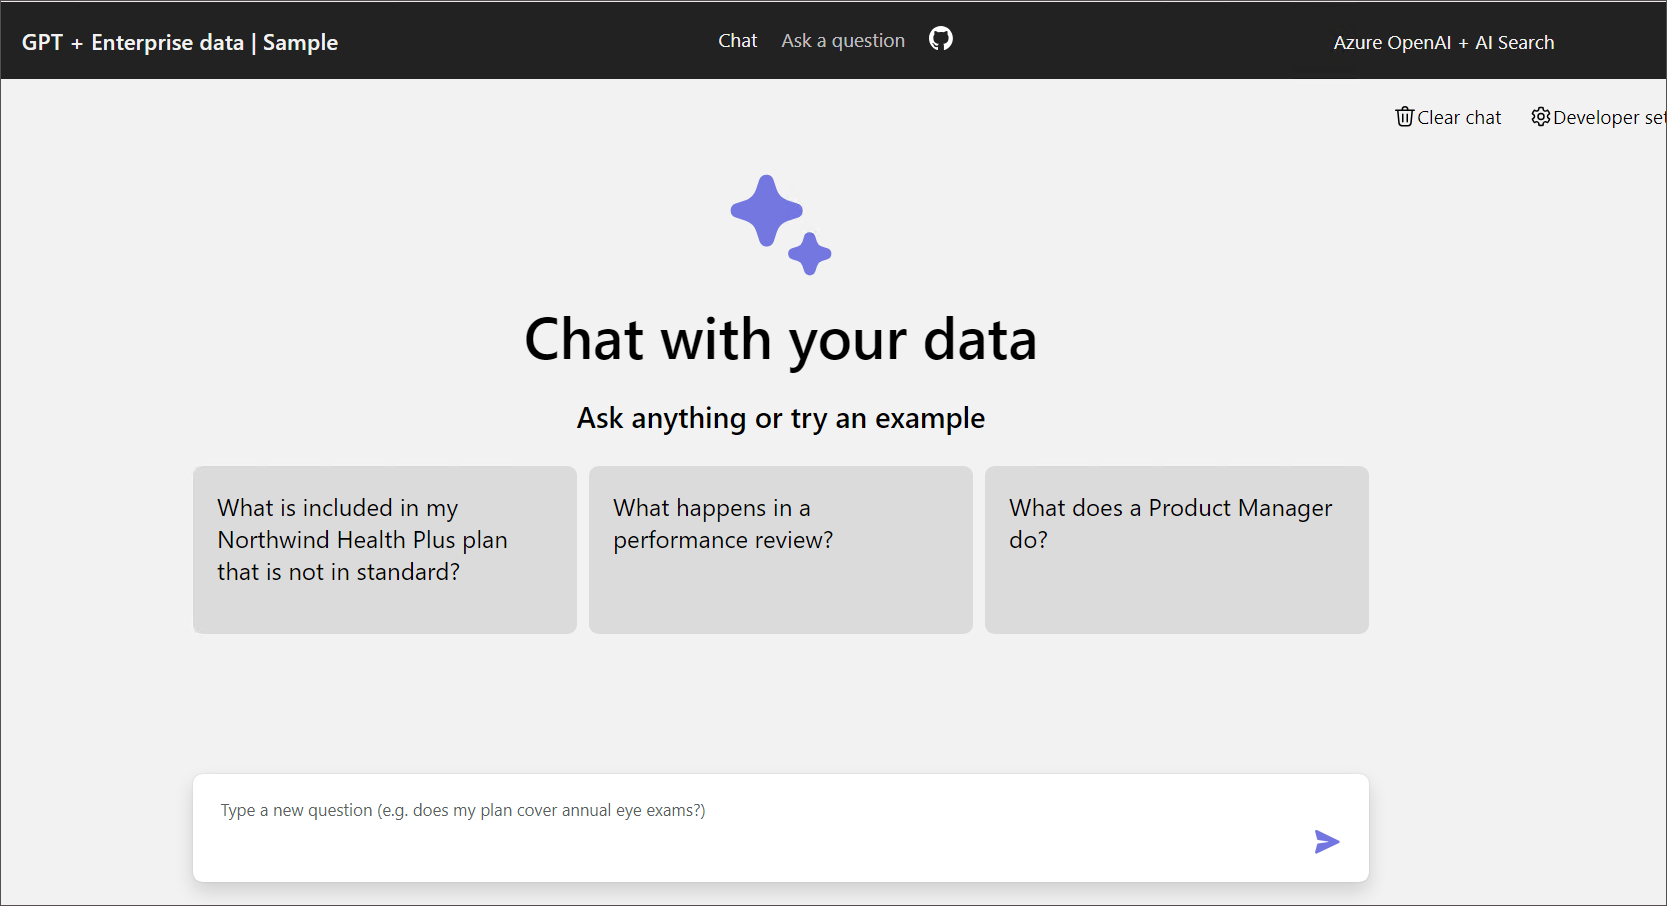
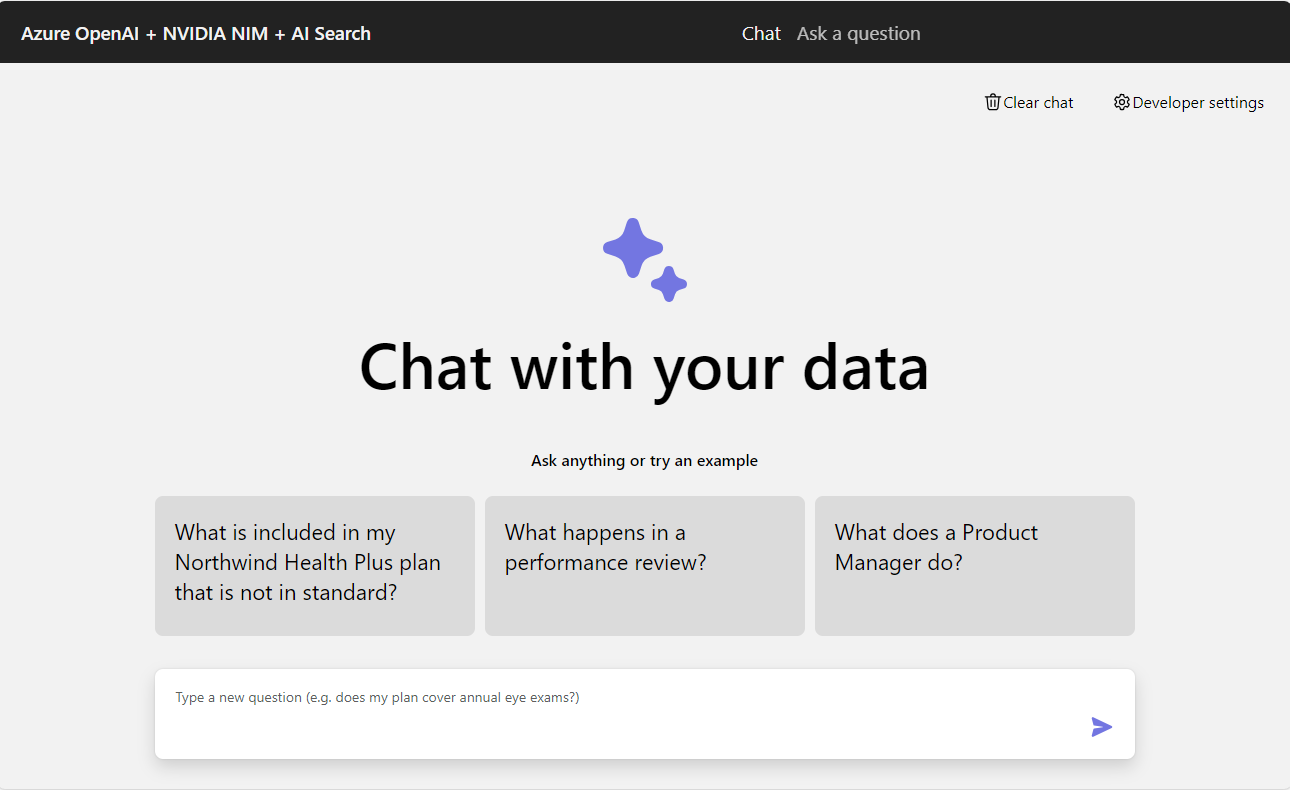
updated

diff --git a/Coach/Solution-Guide/Challenge-3.md b/Coach/Solution-Guide/Challenge-3.md
@@ -128,6 +128,14 @@ In this task, you'll learn the process of Deploying the Infrastructure.
  
     >**Note**: It may take 30 minutes after you see 'SUCCESS' for the application to be fully deployed. If you see a "Python Developer" welcome screen or an error page, then wait a bit and refresh the page.
 
+1. In the chat application, select **Developer settings**.
+
+   ![](../media/Active-image-new1.png)
+
+1. In the **Developer settings** pop-up, check the box for **Use NVIDIA NIM LLM** **(1)**, then click the **Close** button **(2)**.
+
+   ![](../media/Active-image-new2.png)
+
 ## Success Criteria:
 
 - Successful deployment of the Chat App.
